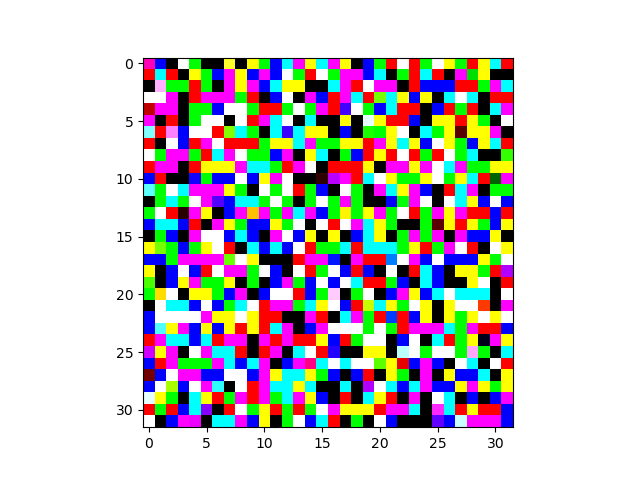
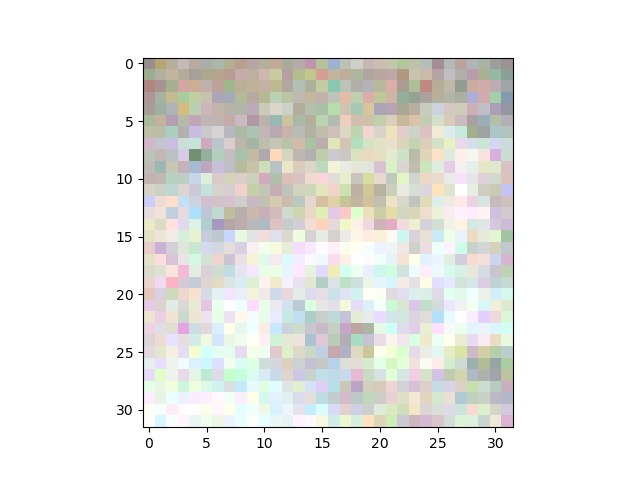
WIP: transition to pytorch lightning

diff --git a/src/main.py b/src/main.py
@@ -99,27 +99,28 @@ def train_stage_1(config, args):
 
 def test_single_step_denoising(args):
     train_loader_smooth, test_loader_smooth = build_dataset(config, noise=0.1, proper_convolution=False, smooth_output=True)
-    helper_module = pixelcnn.CNN_helper(args, train_loader_smooth, test_loader_smooth, stage=1, pretrained=True)
+    helper_module = pixelcnn.CNN_helper(args, train_loader_smooth, test_loader_smooth, stage=1, pretrained=False)
 
     x = single_step_denoising(helper_module, obs=helper_module.obs)
-    sample = rescaling_inv(x)
-    grid_img = tfutils.make_grid(sample)
-    plt.imshow(grid_img.permute(1, 2, 0))
+    # sample = rescaling_inv(x)
+    # grid_img = tfutils.make_grid(sample)
+    # plt.imshow(grid_img.permute(1, 2, 0))
 
-    plt.savefig("imgs/ssd1.png")
+    # plt.savefig("imgs/ssd1.png")
 
     # move x to all positive
-    # img = x.detach().cpu().numpy()[0]
-    # img = img.transpose(2, 1, 0)
-    # img += np.abs(img.min())
-    # # Rescale img to 0 - 1
-    # img = img * 1. / img.max()
-    # plt.imsave("imgs/ssd1.png", img)
+    img = x.detach().cpu().numpy()[0]
+    img = img.transpose(2, 1, 0)
+    img += np.abs(img.min())
+    # Rescale img to 0 - 1
+    img = img * 1. / img.max()
+    plt.imsave("imgs/ssd1.png", img)
+    import pdb; pdb.set_trace()
 
 
 if __name__ == "__main__":
     config = Config()
     args = utils.parser()
     # train_stage_1(config, args)
-    compare_smooth_and_unsmooth()
-    # test_single_step_denoising(args)
+    # compare_smooth_and_unsmooth()
+    test_single_step_denoising(args)

diff --git a/src/modules/training.py b/src/modules/training.py
@@ -1,0 +1,29 @@
+"""
+Stage 1 and 2 training modules
+"""
+from typing import Any
+
+import torch
+import torch.optim as optim
+import pytorch_lightning as pl
+pl.seed_everything(42)
+
+from src.pixelcnn import PixelCNN
+
+
+def init_pixelcnn(params: Any):
+    pass
+
+
+class PixelCNNTrainingModule(pl.LightningModule):
+    def __init__(self, *args: Any, **kwargs: Any) -> None:
+        super().__init__(*args, **kwargs)
+
+        self.save_hyperparameters()
+
+        self.model = init_pixelcnn(self.hparams)
+
+    def configure_optimizers(self):
+        optimizer = optim.Adam(self.parameters(), lr=self.hparams["lr"])
+        scheduler = optim.lr_scheduler.StepLR(optimizer, step_size=1, gamma=self.hparams["lr_decay"])
+        return {"optimizer": optimizer, "scheduler": scheduler}

diff --git a/src/sampler.py b/src/sampler.py
@@ -14,16 +14,16 @@ def single_step_denoising(model, sample_batch_size: int = 1, nr_logistic_mix: in
     device = torch.device("cuda") if torch.cuda.is_available() else torch.device("cpu")
 
     sample_op = lambda x : sample_from_discretized_mix_logistic(x, nr_logistic_mix)
-    # model.train(False)
+    model.train()
     # model.to(device)
 
     # First, sample to get x tilde
     x_tilde = model.sample(sample_batch_size)
-    return x_tilde
 
     # Log PDF:
     xt_v = Variable(x_tilde, requires_grad=True).to(device)
-    logits = model(xt_v, sample=True)
+    model.model.to(device)
+    logits = model.model(xt_v, sample=True)
     log_pdf = discretized_mix_logistic_loss(xt_v, logits)
 
     nabla = autograd.grad(log_pdf, xt_v)[0]

diff --git a/src/modules/__init__.py b/src/modules/__init__.py
@@ -1,0 +1,3 @@
+from .training import PixelCNNTrainingModule
+
+__all__ = ["PixelCNNTrainingModule"]
